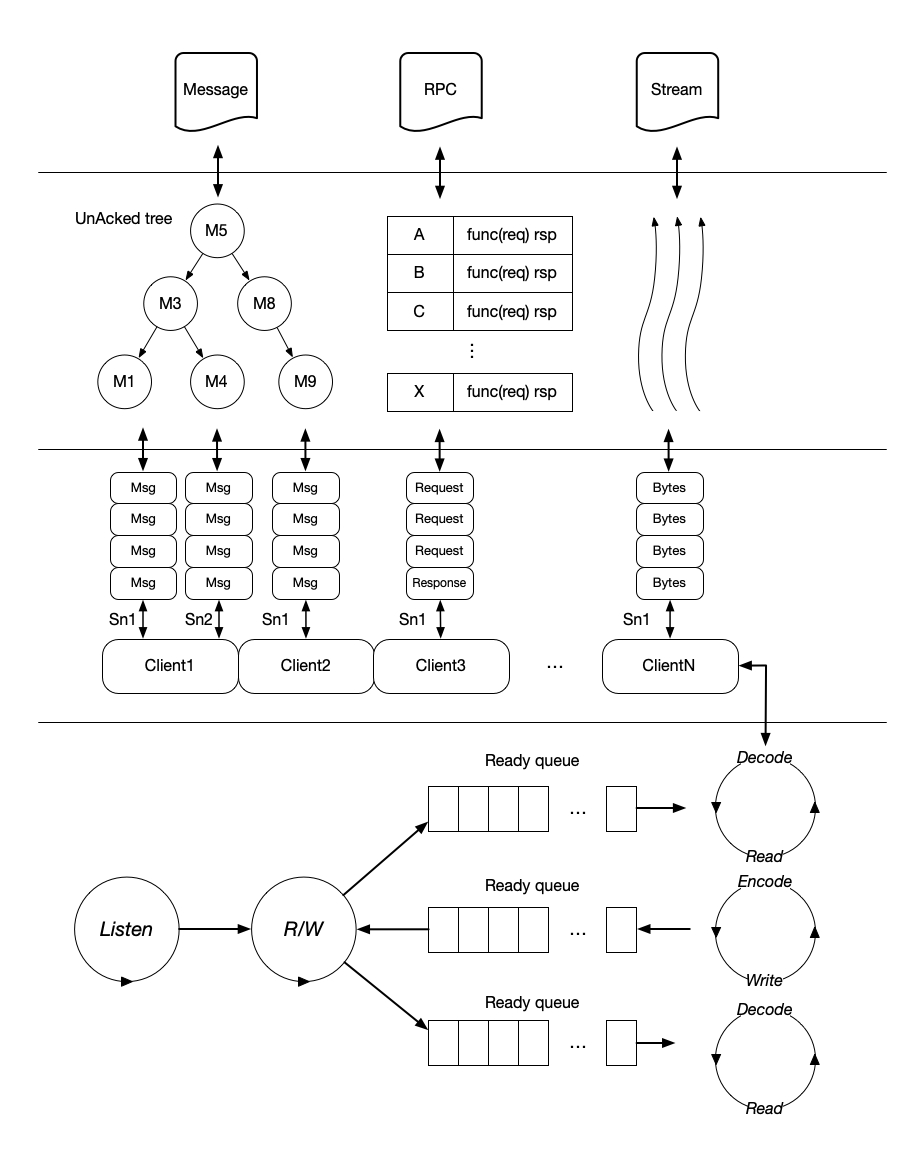
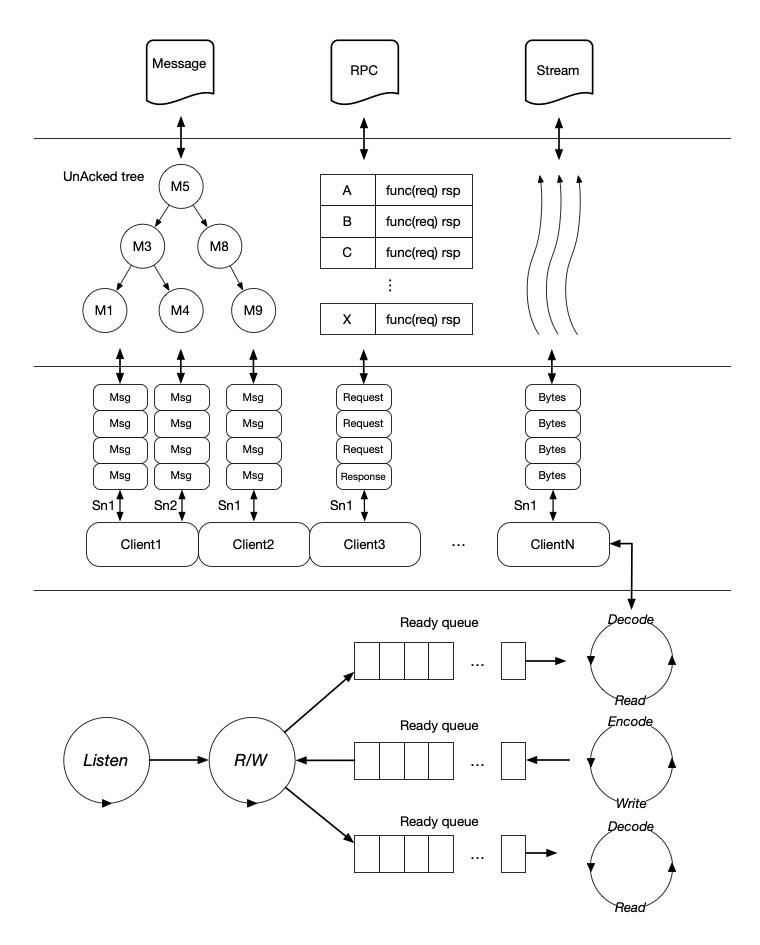
resize png for preview

diff --git a/README.md b/README.md
@@ -3,9 +3,9 @@
 
 ## 架构
 
-![](./docs/biz-arch.png)
+<img src="./docs/biz-arch.png" style="zoom: 100%;">
 
 
 ## 实现
 
-![](./docs/implementation.png)
+<img src="./docs/implementation.png" style="zoom: 65%;">
